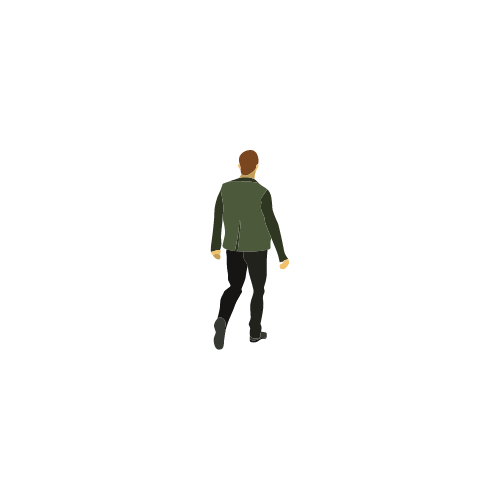
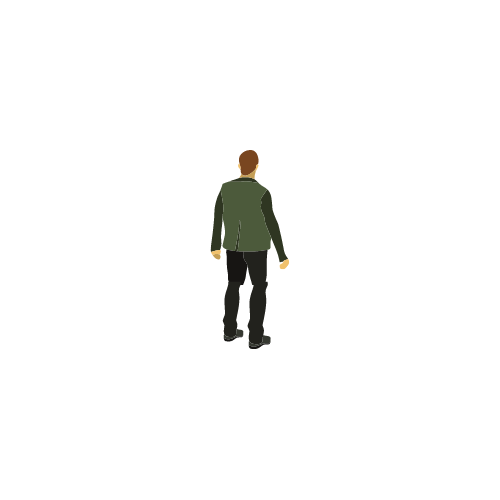
drobne poprawki - obrazki i animacja

Changed region(s): [[0.42, 0.57, 0.54, 0.72]]

diff --git a/characters.py b/characters.py
@@ -29,16 +29,17 @@ class Hero(pygame.sprite.Sprite):
         # Wczytanie obrazków postaci
         image_1 = pygame.image.load(os.path.join('assets', 'characters', 'hero_1.png')).convert_alpha()
         image_2 = pygame.image.load(os.path.join('assets', 'characters', 'hero_2.png')).convert_alpha()
-        # Dodatkowe klatki (gdyby były)
         image_3 = pygame.image.load(os.path.join('assets', 'characters', 'hero_3.png')).convert_alpha()
 
         # Skalowanie obrazków postaci
         image_1 = pygame.transform.scale(image_1, (self.hero_width, self.hero_height))
         image_2 = pygame.transform.scale(image_2, (self.hero_width, self.hero_height))
+        image_3 = pygame.transform.scale(image_3, (self.hero_width, self.hero_height))
 
         # Dodanie obrazków do animacji
         self.animation_frames.append(image_1)
         self.animation_frames.append(image_2)
+        self.animation_frames.append(image_3)
 
         # Ustawienie pierwszego obrazka jako początku animacji
         self.image = self.animation_frames[self.current_frame]
@@ -50,9 +51,9 @@ class Hero(pygame.sprite.Sprite):
         self.heart_height = 30
 
         # Obrazki i przeskalowanie
-        self.hear_image = pygame.image.load(os.path.join('../../../Desktop/project_juki-main/assets', 'characters', 'heart.png')).convert_alpha()
+        self.hear_image = pygame.image.load(os.path.join('assets', 'characters', 'heart.png')).convert_alpha()
         self.hear_image = pygame.transform.scale(self.hear_image, (self.heart_width, self.heart_height))
-        self.broken_heart_image = pygame.image.load(os.path.join('../../../Desktop/project_juki-main/assets', 'characters', 'broken_heart.png')).convert_alpha()
+        self.broken_heart_image = pygame.image.load(os.path.join('assets', 'characters', 'broken_heart.png')).convert_alpha()
         self.broken_heart_image = pygame.transform.scale(self.broken_heart_image, (self.heart_width, self.heart_height))
 
         # Utworzenie prostokąta gracza
